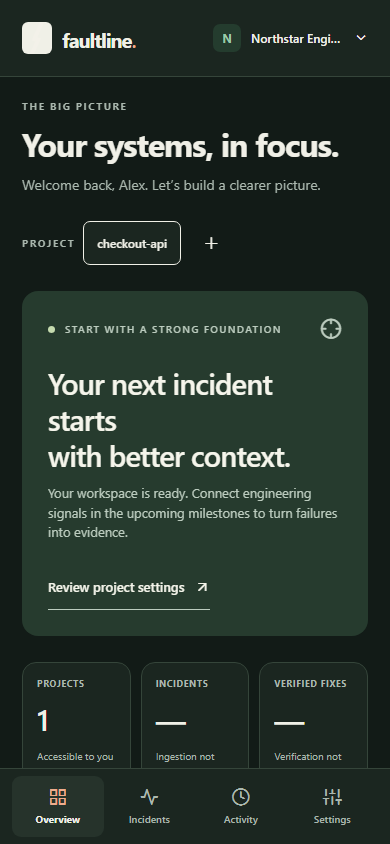
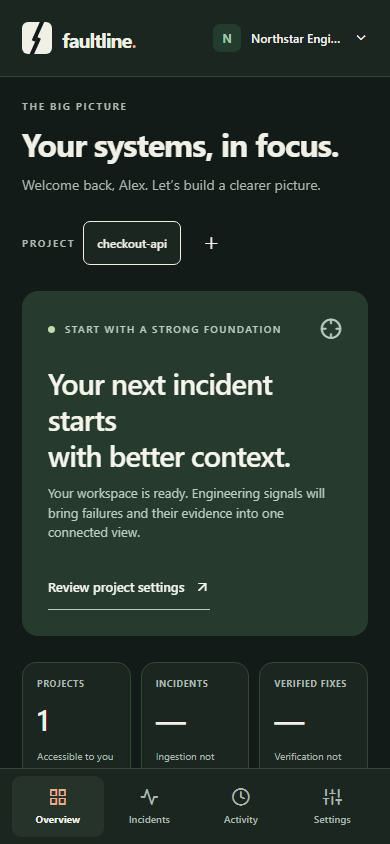
chore: update .gitattributes, CI configuration, and implementation documentation; add M1 verification details

Changed region(s): [[0.1231, 0.5545, 0.8615, 0.6469], [0.0615, 0.0308, 0.1231, 0.0616]]

diff --git a/docs/M1_VERIFICATION.md b/docs/M1_VERIFICATION.md
@@ -1,0 +1,46 @@
+# M1 verification — 2026-11-07
+
+This checkpoint implements foundation behavior only. It does not claim working ingestion, AI, provider integrations, patch execution, or PR creation.
+
+## Measured checks
+
+| Check | Result |
+| --- | --- |
+| Backend on local PostgreSQL 18.6 | 21 passed, including concurrent refresh reuse; final run 13.58 seconds |
+| Backend on SQLite | 20 passed, 1 PostgreSQL-only concurrency test skipped |
+| Migration drift | Alembic reports no new upgrade operations |
+| Session/client Jest tests | 6 passed: secure-vault restoration, parallel refresh, offline credential retention, refresh revocation, permission failures, logout |
+| TypeScript | No errors |
+| Python lint and formatting | Ruff checks pass |
+| Mobile/client formatting | Prettier checks pass |
+| Expo exports | Android, iOS, and web bundles compile successfully |
+| Browser end-to-end | 1 passed in 12.7 seconds: real account/workspace/project/environment creation, appearance switching, audit activity, persisted data after signing back in, logout, connection failure and retry |
+| Dependency reproducibility | Clean npm ci succeeds; direct manifest declarations match the lockfile; mobile TypeScript compiler pinned to Expo's 6.0.3 |
+
+The backend suite also covers password hashing, input validation, token claim/signature/expiry rejection, absolute session expiry, logout revocation, shared rate limits, project isolation, grant revocation, membership removal, owner protection, duplicate names, and database persistence after API recreation.
+
+## Visual review
+
+Screenshots in `docs/screenshots` come from the running React Native web client at 390 × 844 and 1440 × 1050. Registration, overview, desktop overview, and dark appearance are included. Test records are actual local database records, not hard-coded dashboard data.
+
+The screenshot check initially exposed an empty modal during dismissal. The dialog now unmounts when closed, and the browser test waits for dismissal before taking screenshots. The dark theme logo also uses theme-aware contrast.
+
+## Environment and limits
+
+- Docker is not on PATH. Compose and Dockerfile definitions are supplied but were not executed. PostgreSQL tests instead used a workspace-local PostgreSQL runtime bound to loopback with generated, rotated development credentials. The local test runtime is ignored by Git and is not a production dependency.
+- Compose/CI pins use PostgreSQL 17.11 and Redis 7.4.11, selected after reviewing their security-fix release notes: [PostgreSQL 17.11](https://www.postgresql.org/docs/17/release-17-11.html), [Redis 7.4.11](https://redis.io/docs/latest/operate/oss_and_stack/stack-with-enterprise/release-notes/redisce/redisce-7.4-release-notes/). Container startup remains unverified here.
+- Native bundles compile, but no physical device or emulator smoke test was run. Device Keychain/Keystore persistence, keyboards, gestures, and screen-reader behavior still need native validation. Browser screenshots cannot establish those properties.
+- Hosted GitHub Actions have not run. CI definitions provide disposable PostgreSQL tests, formatting/type checks, schema drift checks, and bundle exports.
+- Redis readiness is implemented and configured in Compose, but a live Redis/Compose check was not available here. No queue/worker functionality is claimed in M1.
+- Web preview credentials are deliberately memory-only. Reloading requires sign-in; server records persist.
+- Public account verification/recovery, retention jobs, deployment backup/restore, and wider security hardening remain release gates. See SECURITY.md.
+
+## Dependency audit
+
+After compatible updates, npm reports **24 transitive/advisory findings: 23 moderate, 1 low; zero high or critical**. Findings trace through `glob`, `minimatch`, and `deepmerge` in the Expo/Jest tooling dependency graph. They are not treated as resolved. The offered automatic forced fix includes a downgrade of Expo to SDK 53; it was not applied because it would replace the selected supported application stack.
+
+Do not pass untrusted glob patterns/configuration into development or test tooling. Review patched upstream versions or narrowly scoped, compatibility-tested overrides before public release. Keep dependency auditing in the release checklist rather than claiming this private preview is production hardened.
+
+## Review checkpoint
+
+Use the README walkthrough to review the mobile shell and two-user authorization behavior. Decide whether to proceed to M2: signed demo telemetry, incident grouping, timelines, and durable background jobs. No M2 implementation is included in this checkpoint.

diff --git a/IMPLEMENTATION_PLAN.md b/IMPLEMENTATION_PLAN.md
@@ -1,12 +1,12 @@
 # Faultline implementation plan
 
-Status: planning only. No application implementation has started.
+Status: M1 implemented and under review. M2–M7 have not started. Validation and environment limitations are recorded in docs/M1_VERIFICATION.md.
 
 ## Working agreement
 
 Implement one milestone at a time. At its end, run the relevant tests, fix regressions, update documentation, demonstrate the accepted workflow, and stop for user review before beginning the next milestone. Do not equate scaffolded UI, replayed AI output, or unconfigured integrations with completed functionality.
 
-This initial checkpoint delivers PRODUCT.md, ARCHITECTURE.md, and this plan after inspection of the empty workspace. The next action after review is M1, not the entire application.
+The initial checkpoint delivered PRODUCT.md, ARCHITECTURE.md, and this plan after inspection of the empty workspace. The user approved proceeding with M1. The next implementation checkpoint is M2, after review of the foundation.
 
 ## M1 — Foundation, identity, and mobile shell
 
@@ -140,7 +140,9 @@ Review checkpoint: release candidate review using the complete recorded and repe
 
 ## Current checkpoint
 
-- Complete: inspect workspace and available development commands; propose working name and architecture; create planning documents.
-- Pending: user review of this plan and M1 authorization.
-- Known environment constraint: Docker is not currently on PATH. Verify availability or arrange an executor before M5.
-- Not performed: dependency installation, application scaffolding, migrations, runtime tests, provider connections, or GitHub writes.
+- Implemented: pinned monorepo, Expo shell and API-connected identity/workspace/project/environment screens, secure native token storage adapter, PostgreSQL schema/migration, rotating sessions and shared throttling, project grants, audit records, Compose and CI definitions, generated client types, tests, setup documentation, and screenshots.
+- Verified: database-backed registration/login, cross-user access isolation, grant revocation, membership removal, refresh replay and concurrent rotation, restart persistence, mobile client session behavior, and a real browser journey. See docs/M1_VERIFICATION.md for exact results.
+- Pending review: M1 visual and foundation behavior. Do not start M2 until the user approves this checkpoint.
+- Environment limits: Docker/Compose execution and hosted CI have not been run. A workspace-local PostgreSQL runtime enabled real database tests. Native Android/iOS device smoke testing remains pending; browser checks do not prove device storage behavior.
+- Security follow-up: transitive Expo/Jest dependency audit findings and public authentication hardening are documented. This is a private development preview.
+- Not performed: incident ingestion, background workers, model investigations, provider connections, patch execution, or GitHub writes.

diff --git a/ARCHITECTURE.md b/ARCHITECTURE.md
@@ -1,6 +1,6 @@
 # Faultline architecture
 
-Status: proposed; implementation starts after foundation review.
+Status: M1 foundation implemented. Identity, project authorization, migrations, generated API types, and the mobile shell are present. Ingestion, workers, AI, provider integrations, and execution sections below describe planned later milestones.
 
 ## Shape and repository layout
 

diff --git a/PRODUCT.md b/PRODUCT.md
@@ -1,6 +1,6 @@
 # Faultline
 
-Status: proposed product baseline; awaiting review before implementation.
+Status: product baseline accepted for M1. Foundation implementation is ready for milestone review; later milestones remain planned.
 
 Faultline takes developers from a production failure to an evidence-backed diagnosis, a tested patch, and a human-approved draft pull request.
 
